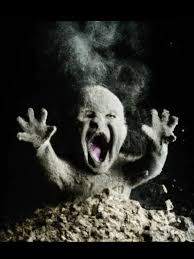
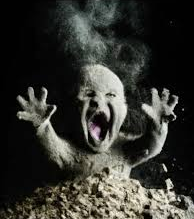
fix: button and cards

diff --git a/15-04/assets/js/index.js b/15-04/assets/js/index.js
@@ -2,24 +2,117 @@
 // como podemos identificar estes elementos?
 
 // entre no documento HTML, e oegue o elemento que tem o id
-const titulo = document.getElementById("titulo")
-const botao = document.getElementById("btn")
+const titulo = document.getElementById("titulo1")
+const text1 = document.getElementById("text1")
+const botao = document.getElementById("btn1")
 const baby = document.getElementById("baby")
+const baby1 = document.getElementById("baby1")
 
-function trocaCor() {
-    titulo.style.color = 'Black '
+let tituloOrigin = titulo.textContent
+let text1Origin = text1.textContent
+
+let tituloAlter = "Baby disintegrating"
+let text1Alter = "O Baby disintegrating é uma carta rara. ela faz seu oponente escolher uma carta da mão dele para banir ela de jogo, assim não pode utiliza."
+let mudou = false
+
+
+function trocaCard1 (){
+    if(mudou){
+        titulo.textContent = tituloOrigin
+        text1.textContent = text1Origin
+    } else {
+        titulo.textContent = tituloAlter
+        text1.textContent = text1Alter
+    }
+    mudou = !mudou
 }
 
-function trocaMensagem (){
-    if(a){
-        baby.textContent = "./assets/images/baby-disintegrating.PNG"
-        titulo.textContent = "Baby disintegrating"
-    } else {}
+function trocaImg1(){
+    // classList serve para adicionar uma nova classe
+    // classList.toggle(class) ativa OU desativa uma classe
+    // ou seja, se ja tiver a classe, desativa
+    // e se não tiver, ativa
+    baby.classList.toggle('escondida') 
+    baby1.classList.toggle('escondida')
 }
+
+
+// -------------------------------------------------
+
+
+const titulo2 = document.getElementById("titulo2")
+const text2 = document.getElementById("text2")
+const botao2 = document.getElementById("btn2")
+const gato = document.getElementById("gato")
+const gatoBiz = document.getElementById("gatoBiz")
+
+let titulo2Origin = titulo2.textContent
+let text2Origin = text2.textContent
+
+let titulo2Alter = "Gato Zorp+"
+let text2Alter = "O Gato Zorp+ é uma carta Mítica e Nobre. ela fala uma lingua não compreesivel e requintada para outros alem dos Zops, causando 1000 de dano não bloqueavel além de destruir uma carta de raridade mais baixa que ela de sua escolha"
+
+function trocaCard2 (){
+    if(mudou){
+        titulo2.textContent = titulo2Origin
+        text2.textContent = text2Origin
+    } else {
+        titulo2.textContent = titulo2Alter
+        text2.textContent = text2Alter
+    }
+    mudou = !mudou
+}
+
+function trocaImg2(){
+
+    gato.classList.toggle('escondida') 
+    gatoBiz.classList.toggle('escondida')
+}
+
+// ------------------------------------------------
+
+const titulo3 = document.getElementById("titulo3")
+const text3 = document.getElementById("text3")
+const botao3 = document.getElementById("btn3")
+const gali = document.getElementById("galinha")
+const eis = document.getElementById("eis")
+
+let titulo3Origin = titulo3.textContent
+let text3Origin = text3.textContent
+
+let titulo3Alter = "Rahhhhhhh"
+let text3Alter = "O Rahhhhhhh é uma carta Épica. ela chma atenção de todas as cartas fazendo a focar ela até ela ser destruida."
+
+function trocaCard3 (){
+    if(mudou){
+        titulo3.textContent = titulo3Origin
+        text3.textContent = text3Origin
+    } else {
+        titulo3.textContent = titulo3Alter
+        text3.textContent = text3Alter
+    }
+    mudou = !mudou
+}
+
+function trocaImg3(){
+
+    gali.classList.toggle('escondida') 
+    eis.classList.toggle('escondida')
+}
+
+
+
 
 // adiciona um evento ao botao
 // um ebento é uma ação nossa
 // addEventListener precisa de dois argumentos:
 // o primeiro é a ação (o que dispara a função)
 //o segundo é qual a função será disparada
-botao.addEventListener('click', trocaMensagem)
+botao.addEventListener('click', trocaImg1)
+botao.addEventListener('click', trocaCard1)
+
+botao2.addEventListener('click', trocaImg2)
+botao2.addEventListener('click', trocaCard2)
+
+botao3.addEventListener('click', trocaImg3)
+botao3.addEventListener('click', trocaCard3)

diff --git a/15-04/index.html b/15-04/index.html
@@ -1,41 +1,60 @@
 <!DOCTYPE html>
 <html lang="pt-BR">
+
 <head>
     <meta charset="UTF-8">
     <meta name="viewport" content="width=device-width, initial-scale=1.0">
-    <title>atv1504</title>
+    <title>cards</title>
     <link rel="stylesheet" href="./assets/styles/index.css">
     <link rel="preconnect" href="https://fonts.googleapis.com">
     <link rel="preconnect" href="https://fonts.gstatic.com" crossorigin>
-    <link href="https://fonts.googleapis.com/css2?family=Gelasio:ital,wght@0,400..700;1,400..700&display=swap" rel="stylesheet">
+    <link href="https://fonts.googleapis.com/css2?family=Gelasio:ital,wght@0,400..700;1,400..700&display=swap"
+        rel="stylesheet">
 </head>
+
 <body>
     <div class="cards">
+
         <div class="card1">
-        <img src="./assets/images/baby-laugh.PNG" alt="baby-laugh" id="baby">
+
+            <img src="./assets/images/baby-laugh.PNG" alt="baby-laugh" id="baby">
+            <img src="./assets/images/baby-disintegrating.PNG"  class="escondida" alt="baby1" id="baby1">
+            
             <div class="Texto">
-                <h1 id="titulo"> Baby Laugh</h1>
-                <p>O Baby Laugh é uma carta léndaria. ela zoa com seu oponente deixando-o desnorteado, assim o oponente não pode atacar no seu proximo turno.</p>
-                <button id="btn"> ADQUIRIR </button>
+                <h1 id="titulo1"> Baby Laugh</h1>
+                <p id="text1">O Baby Laugh é uma carta léndaria. ela zoa com seu oponente deixando-o desnorteado, assim
+                    o oponente não pode atacar no seu proximo turno.</p>
+                <button id="btn1"> ADQUIRIR </button>
             </div>
         </div>
+
         <div class="card2">
-            <img src="./assets/images/gato.PNG" alt="gato">
-             <div class="Texto">
-                  <h1 id="titulo2"> Gato Zorp</h1>
-                 <p>O Gato Zorp é uma carta Mítica. ela fala uma lingua não compreesivel para outros alem dos Zops, causando 1000 de dano não bloqueavel.</p>
-                 <button id="btn2"> ADQUIRIR </button>
-             </div>
+
+            <img src="./assets/images/gato.PNG" alt="gato" id="gato">
+            <img src="./assets/images/gato-biz.PNG"  class="escondida" alt="gatoBiz" id="gatoBiz">
+
+            <div class="Texto">
+                <h1 id="titulo2"> Gato Zorp</h1>
+                <p id="text2">O Gato Zorp é uma carta Mítica. ela fala uma lingua não compreesivel para outros alem dos
+                    Zops, causando 1000 de dano não bloqueavel.</p>
+                <button id="btn2"> ADQUIRIR </button>
+            </div>
         </div>
+
         <div class="card3">
-            <img src="./assets/images/galinha.PNG" alt="galinha">
-               <div class="Texto">
-                    <h1 id="titulo3"> Ahhhhhhhh </h1>
-                    <p>O Ahhhhhhhh é uma carta Épica. ela bufa todas as cartas do tipo som fazendo eles darem 50% a mais de dano em até ela ser destruida.</p>
-                    <button id="btn3"> ADQUIRIR </button>
-                </div>
+
+            <img src="./assets/images/galinha.PNG" alt="galinha" id="galinha">
+            <img src="./assets/images/esqueleto.PNG"  class="escondida" alt="eis" id="eis">
+
+            <div class="Texto">
+                <h1 id="titulo3"> Ahhhhhhhh </h1>
+                <p id="text3">O Ahhhhhhhh é uma carta Épica. ela bufa todas as cartas do tipo som fazendo eles darem 50%
+                    a mais de dano em até ela ser destruida.</p>
+                <button id="btn3"> ADQUIRIR </button>
+            </div>
         </div>
     </div>
     <script src="./assets/js/index.js"> </script>
 </body>
+
 </html>

diff --git a/15-04/assets/styles/index.css b/15-04/assets/styles/index.css
@@ -9,6 +9,7 @@ p{
 h1 {
     color: white;
     font-family: 'Mael';
+    letter-spacing: 5px;
 }
 
 
@@ -26,7 +27,7 @@ img {
 }
 
 .card1 {
-    background: linear-gradient(rgb(10, 169, 218), rgb(8, 41, 187));
+    background: linear-gradient(rgb(10, 169, 218), rgb(8, 41, 187), black);
     padding: 5%;
     margin: 10px;
     border-radius: 20px;
@@ -34,7 +35,7 @@ img {
 }
 
 .card2 {
-    background: linear-gradient(rgb(157, 255, 100), rgb(23, 102, 36));
+    background: linear-gradient(rgb(157, 255, 100), rgb(23, 102, 36), black);
     padding: 5%;
     margin: 10px;
     border-radius: 20px;
@@ -42,7 +43,7 @@ img {
 }
 
 .card3 {
-    background: linear-gradient(rgb(153, 153, 153), rgb(63, 62, 62));
+    background: linear-gradient(rgb(153, 153, 153), rgb(63, 62, 62), black);
     padding: 5%;
     margin: 10px;
     border-radius: 20px;
@@ -76,4 +77,8 @@ button:hover {
     background-color: black;
     color: white;
     cursor: pointer;
+}
+
+.escondida{
+    display: none; /* faz com que o elemento desapareça */
 }
